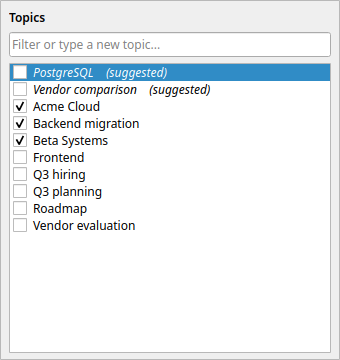
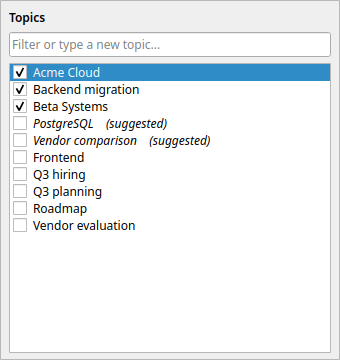
Topics popup: three-bucket sort (assigned -> suggested -> rest)
Previous sort put suggestions at the very top; everything else
(accepted topics + plain catalog entries) ended up mixed
together below. The popup now serves two jobs at once: a "what's
on this session" view AND the assignment surface, so the
confirmed picks belong at the top of the list.

New order, alphabetical within each bucket:
  1. Currently assigned (accepted) topics
  2. Suggestions
  3. The rest of the catalog

The visual contract still reads cleanly because each bucket
carries a distinct treatment: bucket 1 has the checkbox checked,
bucket 2 has the italic "(suggested)" badge, bucket 3 is plain
unchecked.

Test updated to pin all three buckets in order. Screenshot 34
regenerated. 23 popup tests, 1828 total.

Changed region(s): [[0.0294, 0.1833, 0.6176, 0.4278], [0.0294, 0.3361, 0.0588, 0.3667], [0.0294, 0.2444, 0.0588, 0.275]]

diff --git a/tests/test_assignment_popup.py b/tests/test_assignment_popup.py
@@ -444,13 +444,13 @@ def test_bar_topics_popup_opens_with_session_state(qt_app):
         bar.deleteLater()
 
 
-def test_bar_topics_popup_sorts_suggestions_first(qt_app):
-    """Suggestions appear at the top of the list (alphabetical),
-    then the rest of the catalog (alphabetical). A user scanning
-    after a fresh synthesis sees the candidate tags without
-    scrolling. Pinned because the sort key is a Python
-    ``(not r.suggested, r.name.casefold())`` tuple that's easy to
-    invert by accident."""
+def test_bar_topics_popup_sorts_assigned_then_suggested_then_rest(qt_app):
+    """Three-bucket sort: currently assigned (accepted) topics at
+    the top, then suggestions, then the rest of the catalog.
+    Alphabetical within each bucket. The list serves both as a
+    quick "what's on this session" view AND the assignment surface,
+    so the confirmed picks belong at the top (v0.7.8 followup --
+    the prior pin only sorted suggestions to the top)."""
     bar = ClassificationBar()
     try:
         cls = _make_classification_with_topics(
@@ -469,16 +469,21 @@ def test_bar_topics_popup_sorts_suggestions_first(qt_app):
         bar._on_topics_clicked()  # noqa: SLF001
         popup = bar._topics_popup  # noqa: SLF001
         order = [r.name for r in popup._rows]  # noqa: SLF001
-        # First: suggestions, alphabetized.
-        suggestion_names = [r.name for r in popup._rows if r.suggested]  # noqa: SLF001
-        assert suggestion_names == ["alpha-suggested", "bravo-suggested"]
-        # The first two rows ARE the suggestion rows -- top of list.
-        assert order[:2] == ["alpha-suggested", "bravo-suggested"]
-        # Then everything else, alphabetized.
-        non_suggestion_order = [r.name for r in popup._rows if not r.suggested]  # noqa: SLF001
-        assert non_suggestion_order == sorted(
-            non_suggestion_order, key=str.casefold,
-        )
+        # Bucket 1: assigned (accepted), alphabetized.
+        assert order[:2] == ["alpha-accepted", "zulu-accepted"]
+        # Bucket 2: suggestions, alphabetized.
+        assert order[2:4] == ["alpha-suggested", "bravo-suggested"]
+        # Bucket 3: the rest, alphabetized.
+        assert order[4:] == ["alpha-other", "charlie-other"]
+        # Bucket assignments line up with the assigned/suggested
+        # flags so the visible state (checked / italic-suggested /
+        # plain) matches the row's group.
+        rows_by_name = {r.name: r for r in popup._rows}  # noqa: SLF001
+        assert rows_by_name["alpha-accepted"].assigned is True
+        assert rows_by_name["alpha-suggested"].suggested is True
+        assert rows_by_name["alpha-suggested"].assigned is False
+        assert rows_by_name["alpha-other"].assigned is False
+        assert rows_by_name["alpha-other"].suggested is False
     finally:
         bar.deleteLater()
 

diff --git a/meeting_notetaker/ui/classification_bar.py b/meeting_notetaker/ui/classification_bar.py
@@ -197,10 +197,13 @@ class ClassificationBar(QWidget):
         state misled the user (#82 followup, v0.7.8); the badge
         carries the suggestion semantic on its own.
 
-        Sort: suggestions alphabetical first, then everything
-        else alphabetical. A user scanning the popup after a fresh
-        synthesis sees the candidate tags at the top without
-        scrolling through the full catalog.
+        Sort (three buckets, alphabetical within each):
+          1. Currently assigned (accepted) topics
+          2. Suggestions
+          3. The rest of the catalog
+        The list doubles as an "at a glance" view of what's already
+        on the session AND the place to add/accept more, so the
+        confirmed picks belong at the top.
 
         Topics that aren't on the session and aren't suggestions
         appear with ``assigned=False, suggested=False`` -- clicking
@@ -239,10 +242,15 @@ class ClassificationBar(QWidget):
                 assigned=is_accepted,
                 suggested=is_suggested,
             ))
-        # Sort: suggestions first (each group alphabetical). Python
-        # sorts False < True, so `not r.suggested` puts True-suggested
-        # rows (key=False) ahead of non-suggested rows (key=True).
-        rows.sort(key=lambda r: (not r.suggested, r.name.casefold()))
+        # Bucket: 0 = assigned (top), 1 = suggested (middle),
+        # 2 = neither (bottom). Within each bucket, alphabetical.
+        def _bucket(r: AssignmentRow) -> int:
+            if r.assigned:
+                return 0
+            if r.suggested:
+                return 1
+            return 2
+        rows.sort(key=lambda r: (_bucket(r), r.name.casefold()))
         return rows
 
     def _ensure_topics_popup(self) -> TopicsAssignmentPopup:

diff --git a/scripts/gen_screenshots.py b/scripts/gen_screenshots.py
@@ -958,18 +958,19 @@ def shot_topics_popup() -> None:
     )
 
     # Row layout mirrors ClassificationBar._build_topic_rows for
-    # v0.7.8: suggestions at the top (alpha within group, unchecked)
-    # so users can scan candidate tags first; then accepted topics
-    # (checked); then plain catalog entries (unchecked).
+    # v0.7.8: accepted topics at the top so the list doubles as
+    # a "what's on this session" view, then suggestions (italic +
+    # badge, unchecked), then plain catalog entries. Alphabetical
+    # within each bucket.
     po = TopicsAssignmentPopup()
     po.set_rows([
-        # Suggestions (alpha): unchecked + italic "(suggested)" badge.
-        AssignmentRow("PostgreSQL", assigned=False, suggested=True),
-        AssignmentRow("Vendor comparison", assigned=False, suggested=True),
         # Accepted (alpha): checked.
         AssignmentRow("Acme Cloud", assigned=True),
         AssignmentRow("Backend migration", assigned=True),
         AssignmentRow("Beta Systems", assigned=True),
+        # Suggestions (alpha): unchecked + italic "(suggested)" badge.
+        AssignmentRow("PostgreSQL", assigned=False, suggested=True),
+        AssignmentRow("Vendor comparison", assigned=False, suggested=True),
         # Plain catalog entries (alpha): unchecked.
         AssignmentRow("Frontend"),
         AssignmentRow("Q3 hiring"),
